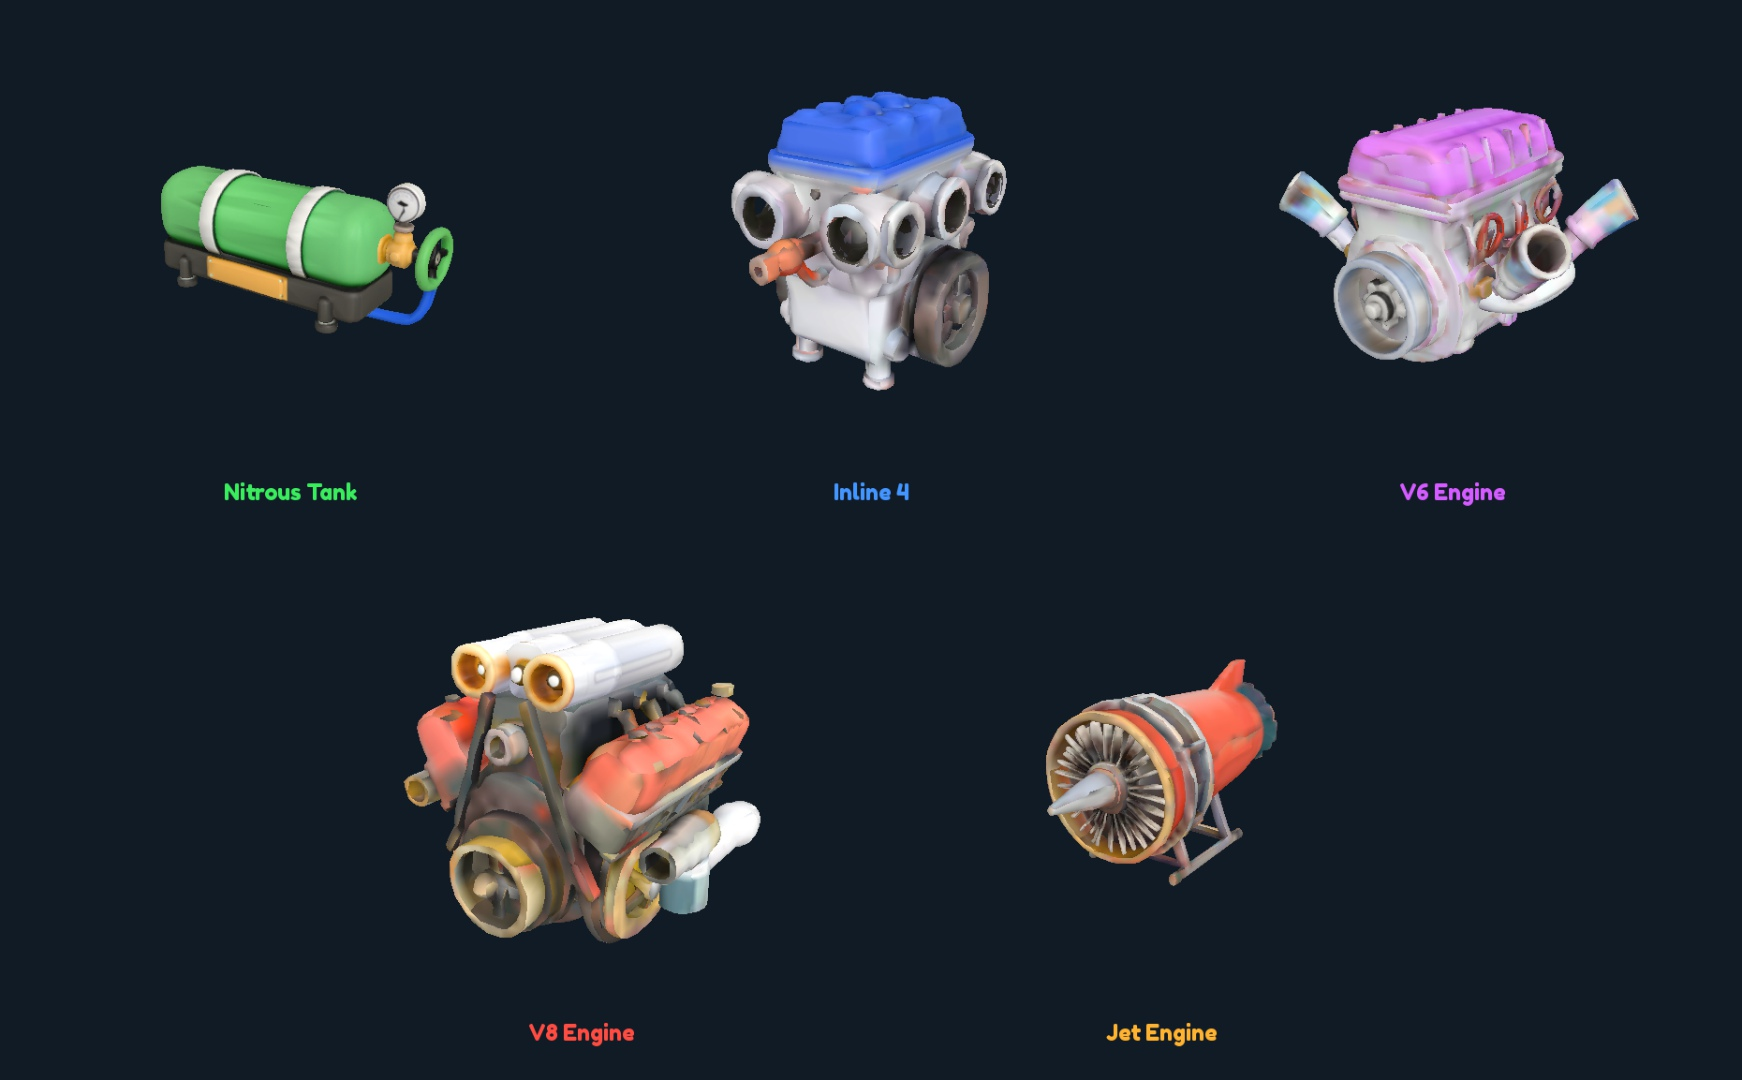
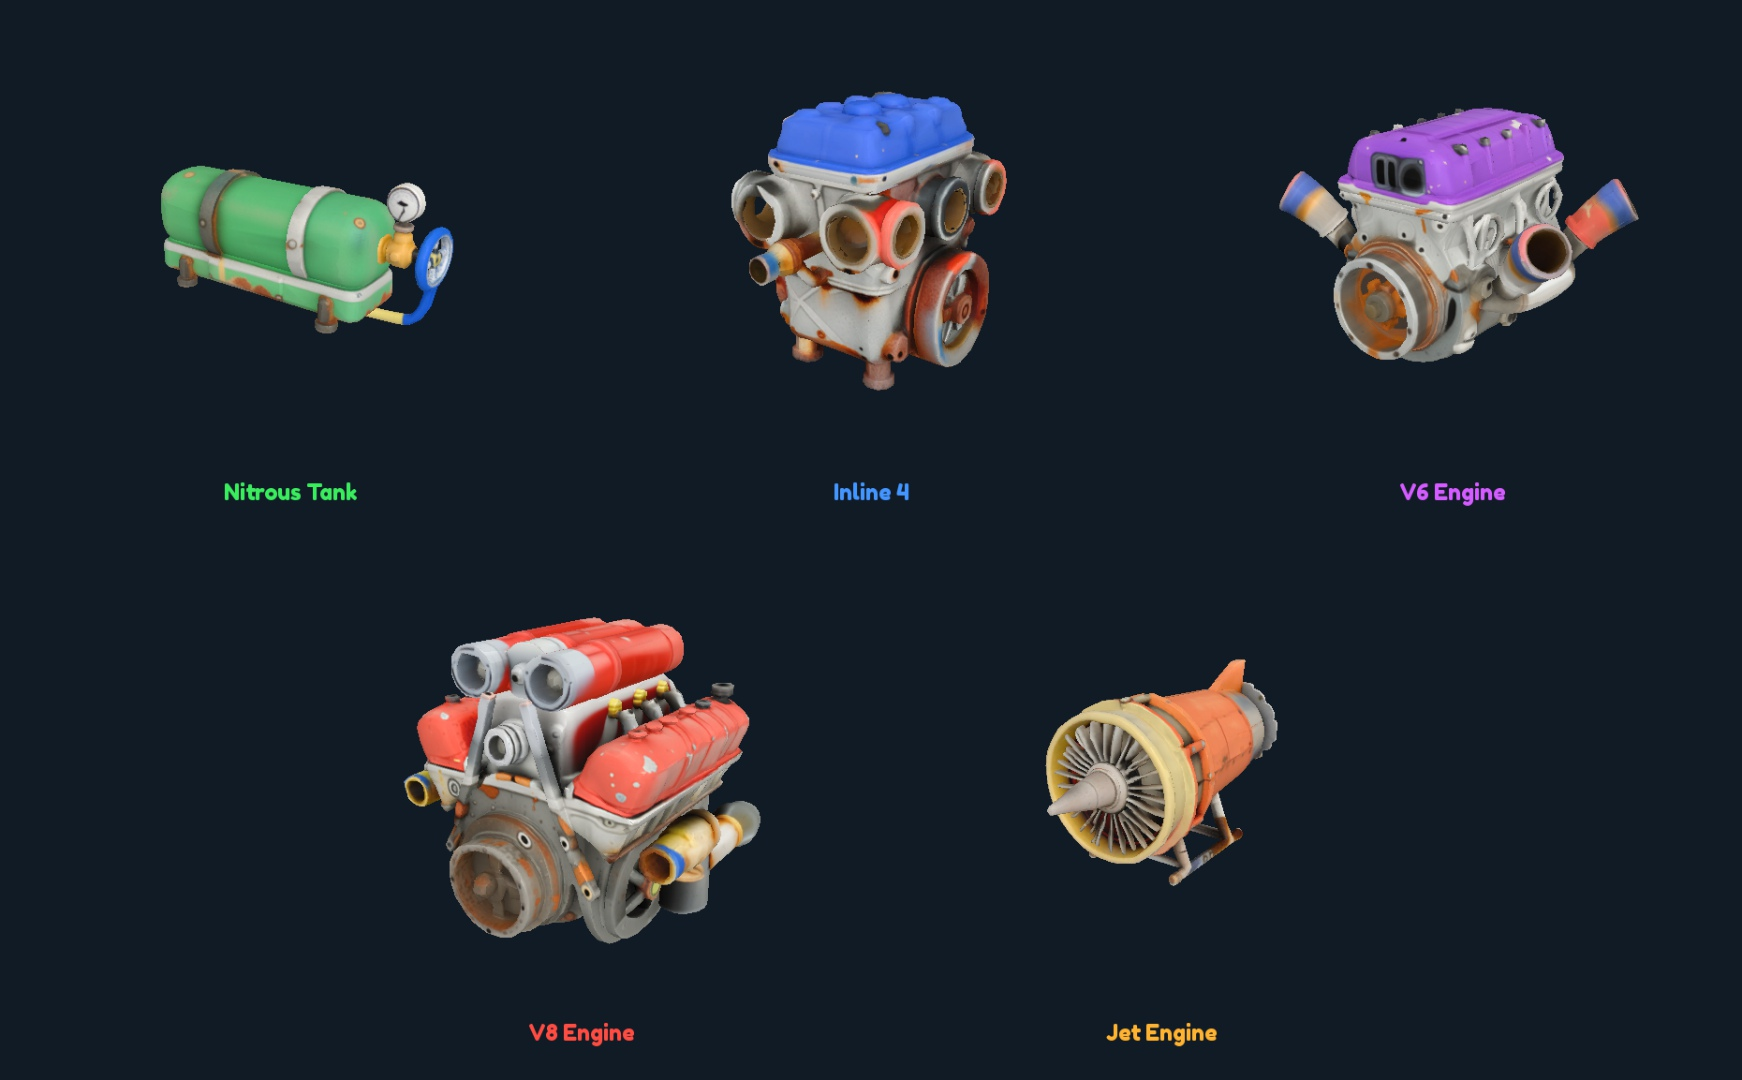
Weather addon textures with rust, chipped paint and mechanical wear

diff --git a/assets/addon-redesign/README.md b/assets/addon-redesign/README.md
@@ -4,7 +4,15 @@ Five standalone pickup models based on the approved green/blue/purple/red/orange
 
 Only appearance is being changed. Recipe mappings, rarity, value, drop odds and player data are preserved. Existing templates are backed up in Studio before replacement.
 
-## Installed first pass
+## Current weathered finish
+
+Revision `AddonWeathered_20260923_v2` is now installed. Textures add chipped enamel, rust at seams/fasteners, worn pulleys, oily recesses and heat-stained headers while keeping the five rarity colors. Shape bounds remain within .01 studs of the approved first pass, and each model still has three MeshParts. The Nitrous Tank's original valve/gauge submodel was retained to keep its dial legible.
+
+Current `models.json`, `restore.luau`, and `preview.png` describe the weathered version. The `*-clean-v1` files preserve the earlier appearance. Before replacement the live clean templates were moved to `ServerStorage.AddonBeforeWeathering_1790175813`.
+
+Repeated verification: all 35 recipes, three size scales, ground placement, welded movement/resize, tint, fade and viewport cloning passed. All 15 assets preloaded successfully. The normal spawner dropped V8 Engine during testing; Output showed no errors. Recovery recreated and matched all 15 mesh/texture references and transforms. Manual pickup/fusion, save round trip and mobile performance are still untested. The place has not been published by this task.
+
+## First-pass background
 
 Revision `AddonConcept_20260923_v1`. All five templates are now Models containing three MeshParts each. Longest sides: Nitrous Tank 3, Inline 4 3.3, V6 Engine 3.5, V8 Engine 4, Jet Engine 4.5 studs. These are ingredient sizes, not the larger fused-result rarity ladder. Existing ItemVisuals global scaling still applies.
 
